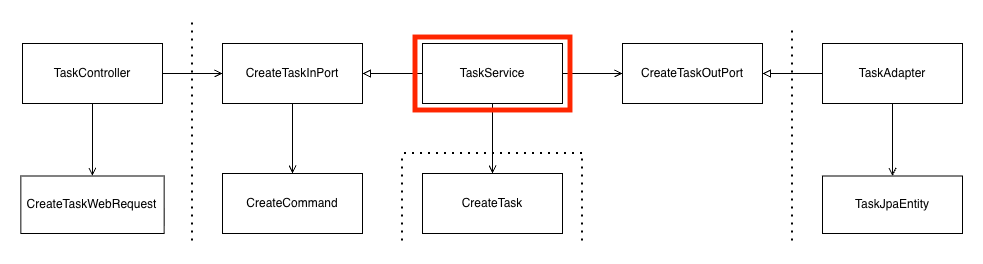
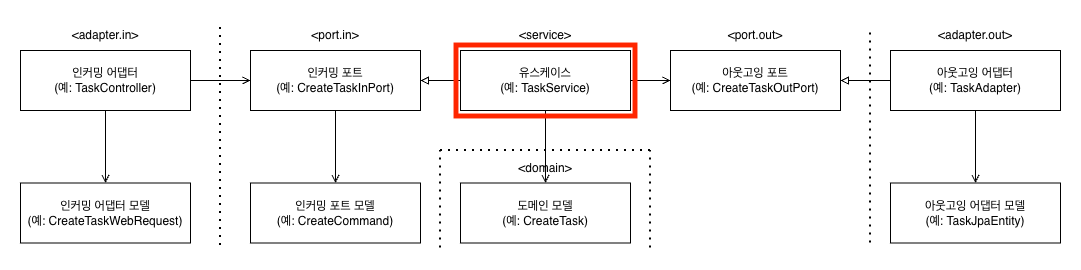
doc: README.md 수정

diff --git a/README.md b/README.md
@@ -40,7 +40,8 @@ cd task && ./gradlew bootRun
 
 ## 구현 전략
 
-해당 프로젝트는 헥사고날 아키텍처를 적용한다.
+해당 프로젝트는 헥사고날 아키텍처를 적용한다.  
+아래의 패키지 구조와 경계 간 매핑 전략은 책 <[만들면서 배우는 클린 아키텍처](https://product.kyobobook.co.kr/detail/S000001766486)>의 내용을 참고한다.
 
 ### main 폴더의 패키지 설명
 
@@ -93,7 +94,7 @@ cd task && ./gradlew bootRun
 - 테스트는 유스케이스의 Spring Annotation 사용 여부를 확인해야 한다  
   https://github.com/newy2/algo-trade-backend-new/blob/803a0960612f66874355c1b29dba1edea007498b/task/src/test/kotlin/com/newy/task/unit/task/service/TaskServiceTest.kt#L315-L325
 
-### 유스케이스의 입력 파라미터 (InPortModel 로 표기) - 단위 테스트
+### 인커밍 포트 모델 (InPortModel 로 표기) - 단위 테스트
 
 <img src="doc/mapping_strategy_03.png" />
 
